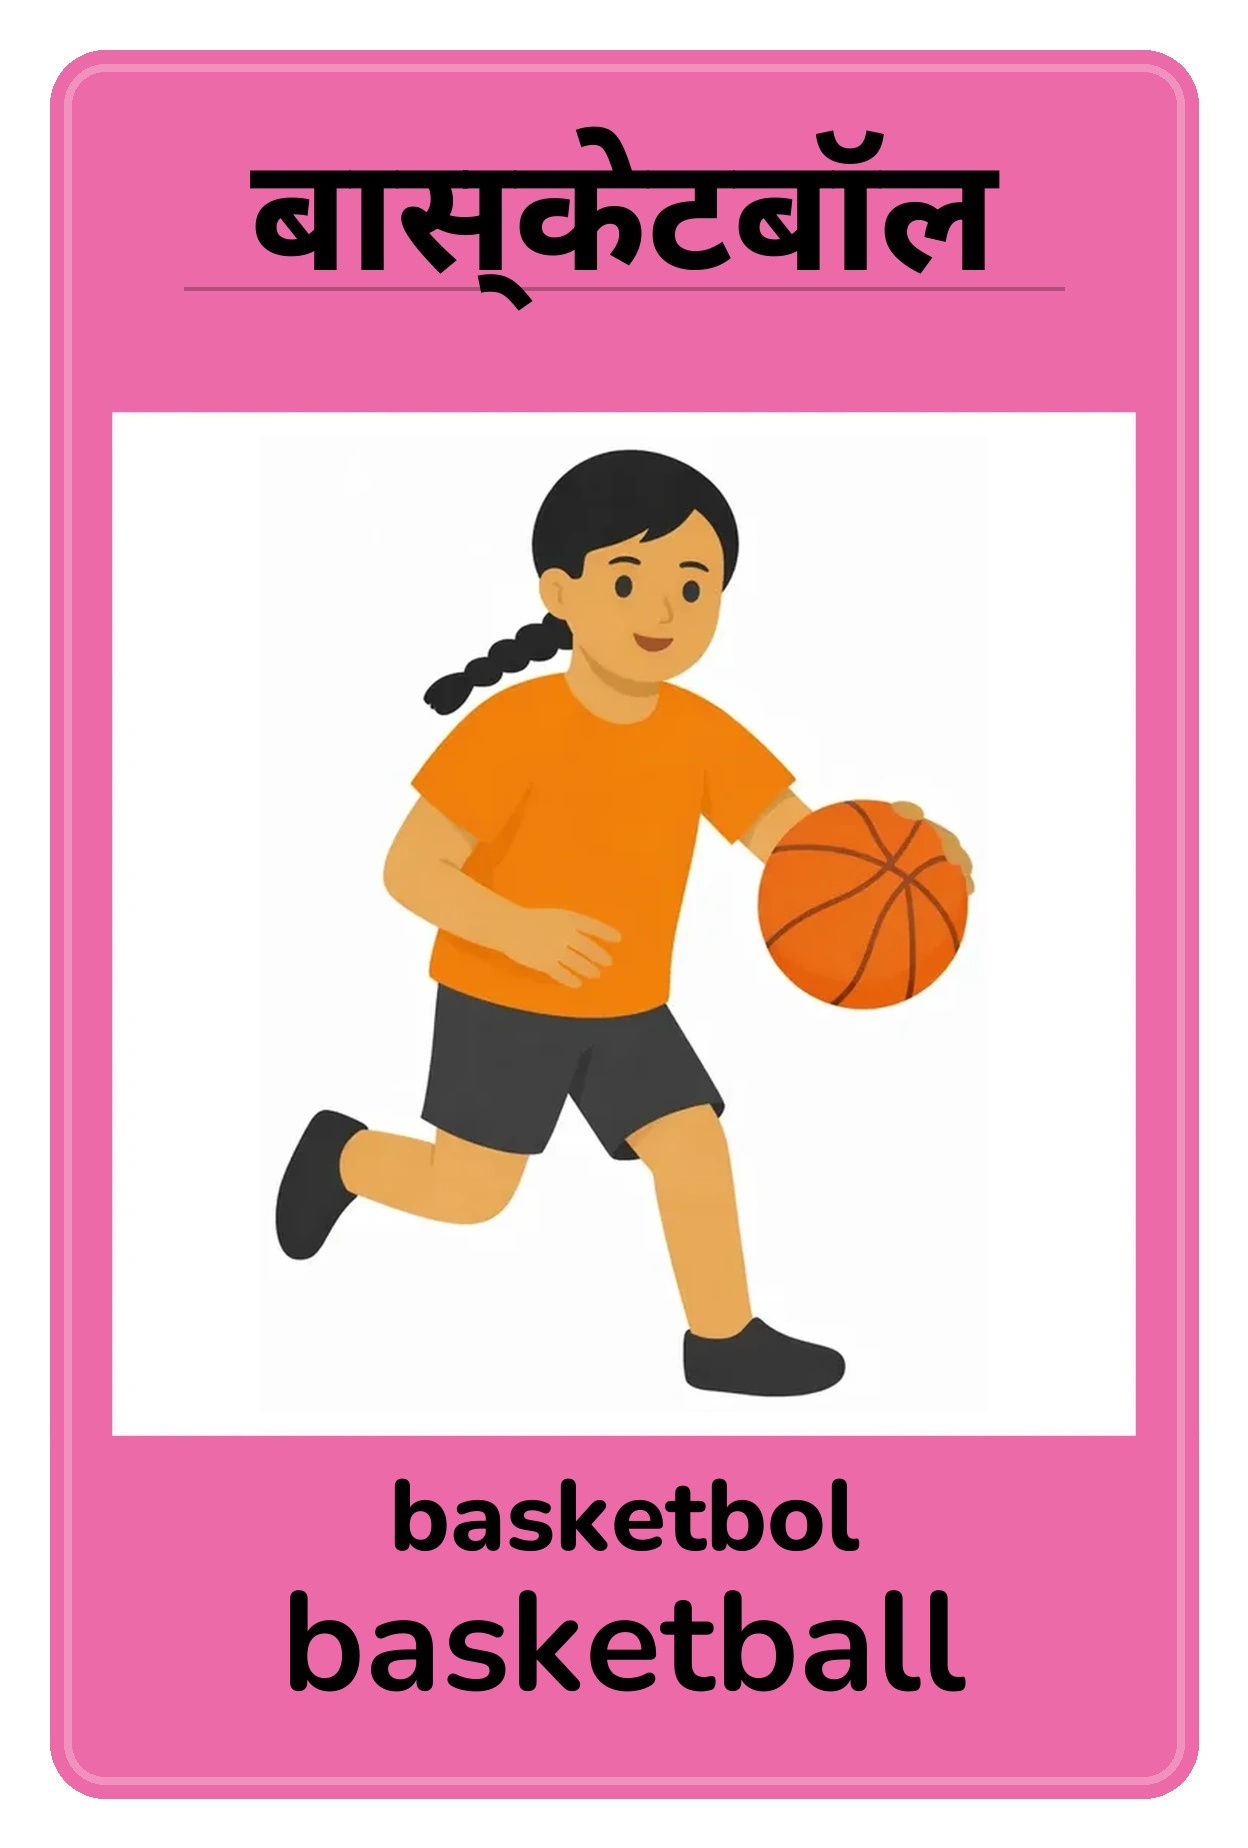
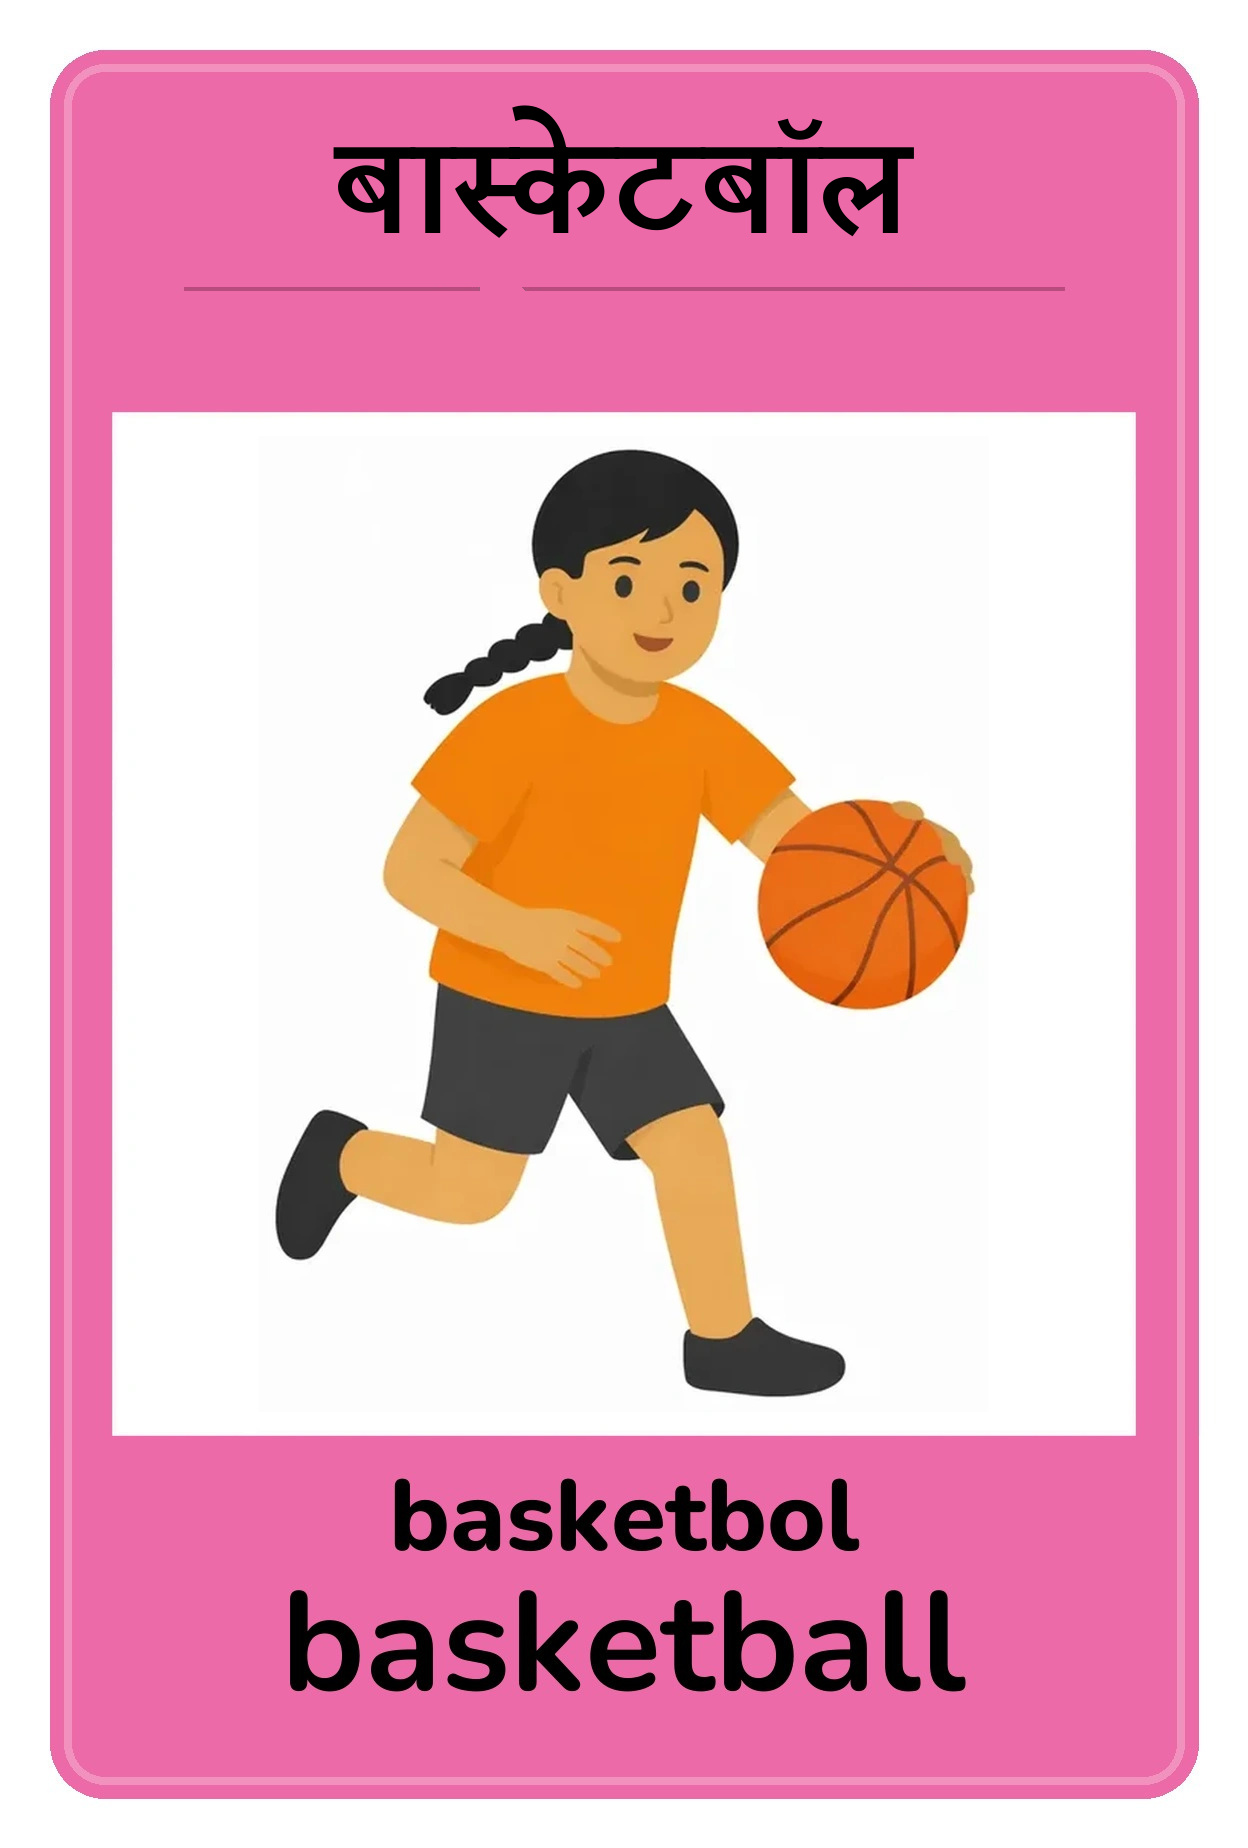
Repaint Hindi headers so basketball and dancing read बास्केटबॉल and नृत्य
The card labels were already those spellings. The baked headers used a half-form that looked like a hanging halant. Bump the demo cache to v86 so the new images replace the cached cards.

Changed region(s): [[0.1875, 0.0308, 0.8125, 0.1851]]

diff --git a/sw.js b/sw.js
@@ -10,7 +10,7 @@
    Bump CACHE_VERSION on every deploy. Old caches are deleted on
    activate, so a stale stylesheet can never outlive a release.       */
 
-const CACHE_VERSION = 'v85';
+const CACHE_VERSION = 'v86';
 const SHELL_CACHE   = `ptw-shell-${CACHE_VERSION}`;
 const ASSET_CACHE   = `ptw-assets-${CACHE_VERSION}`;
 
